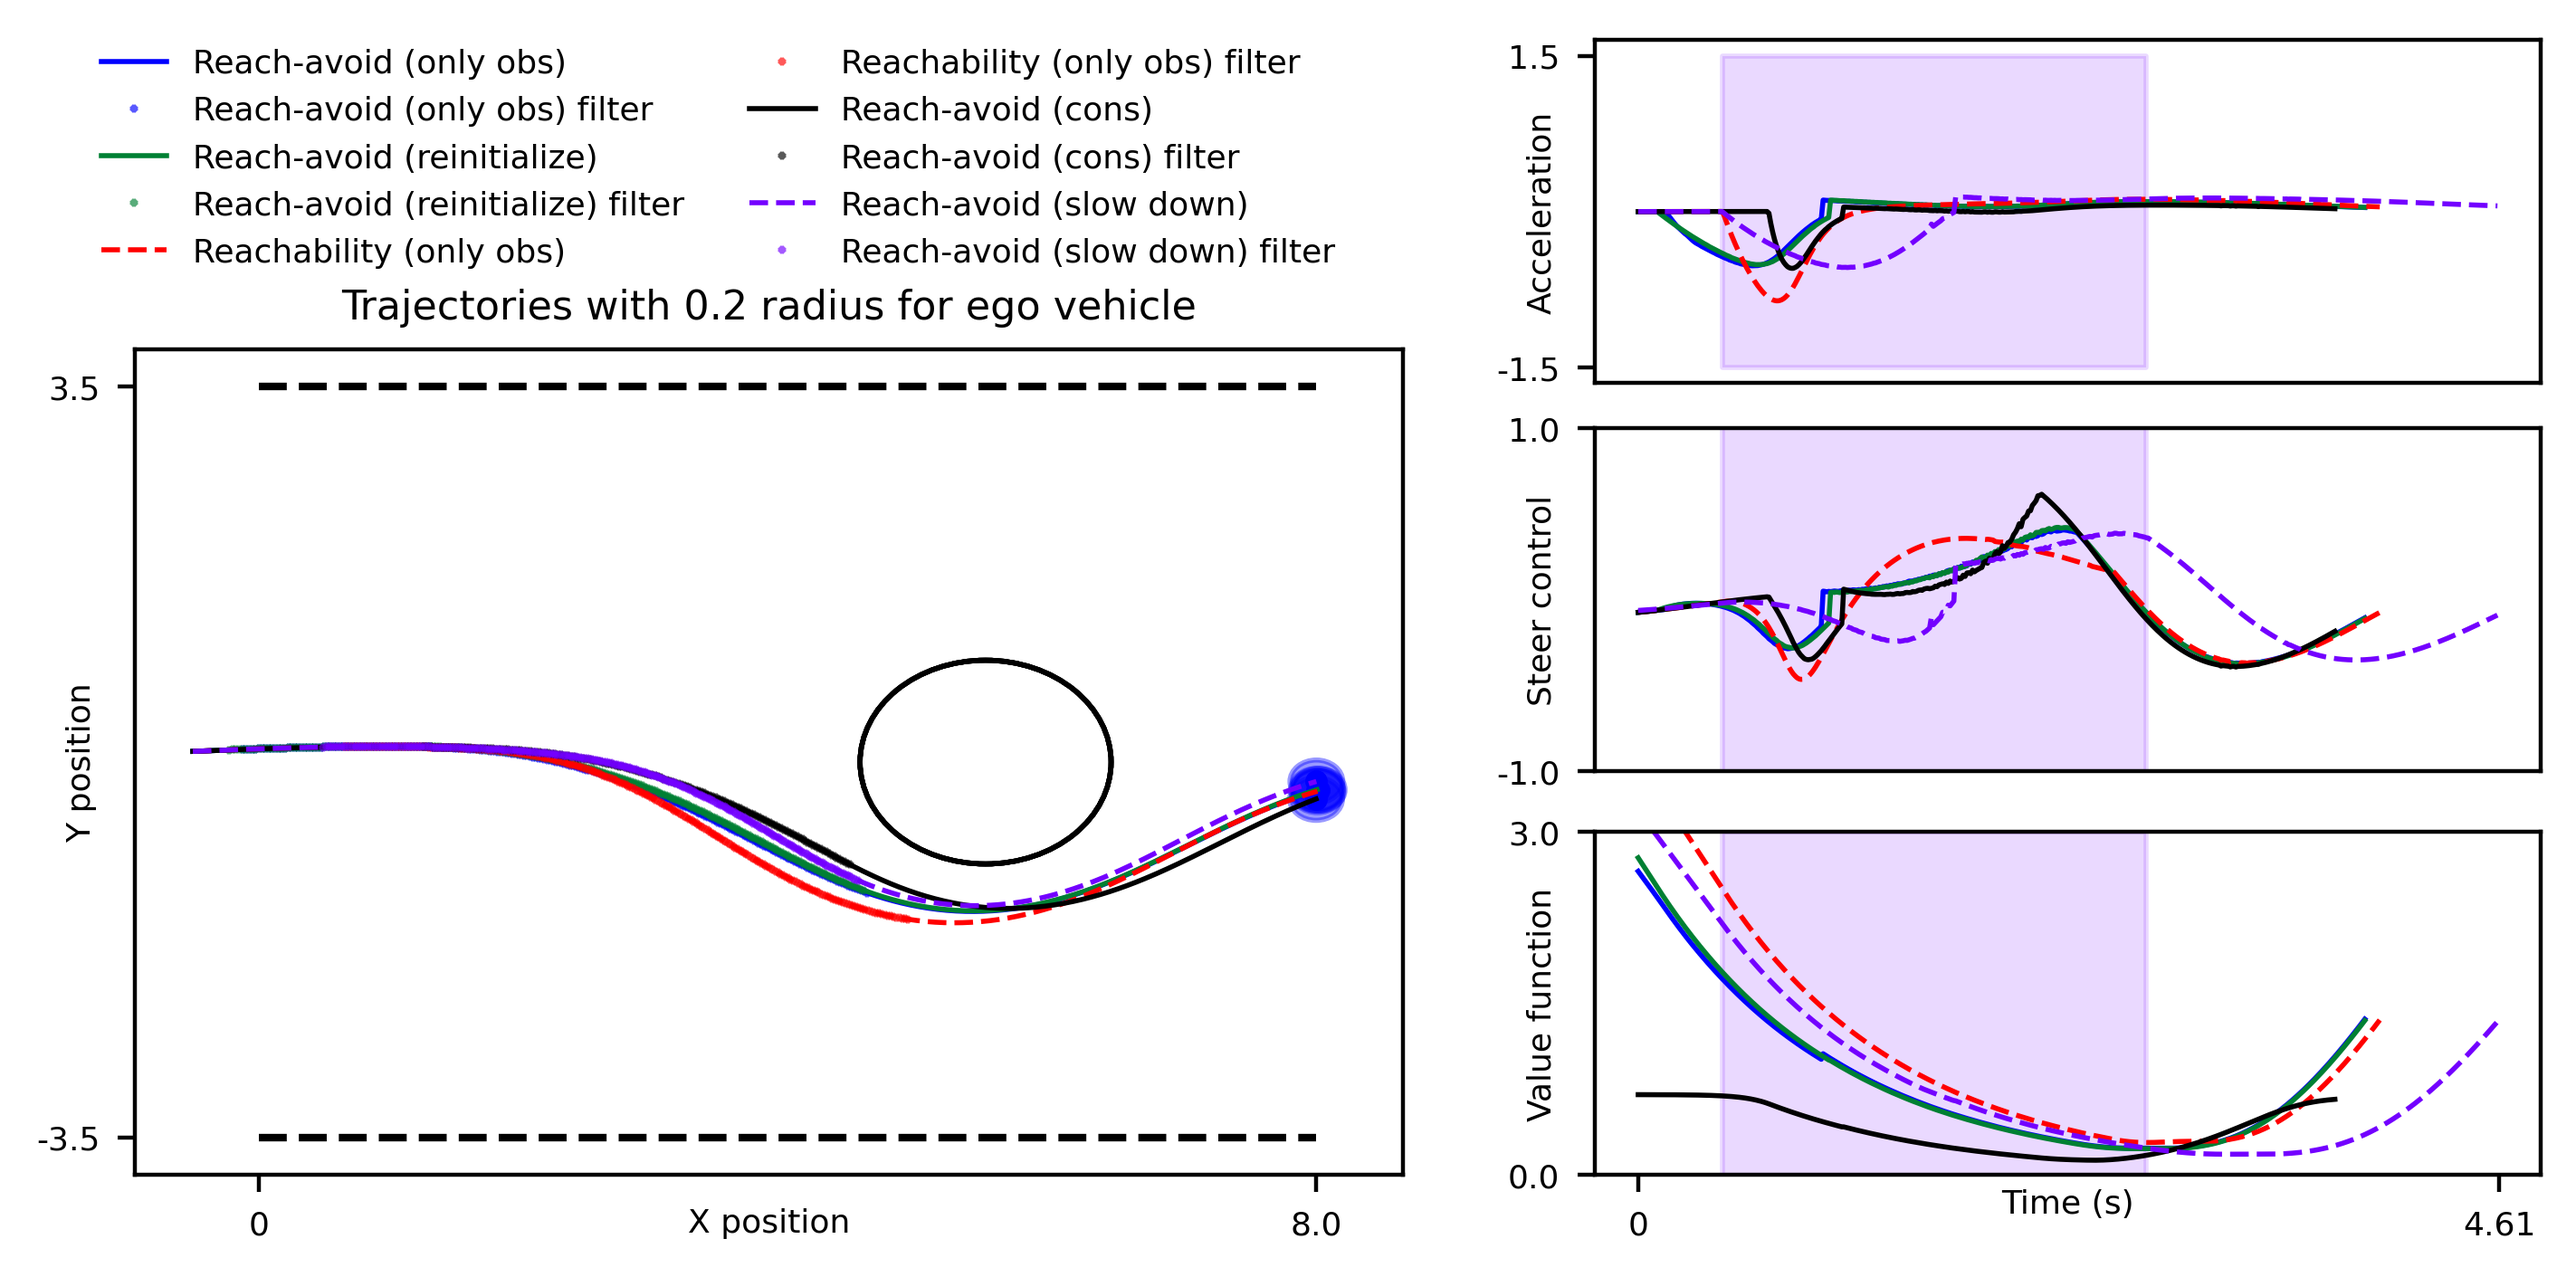
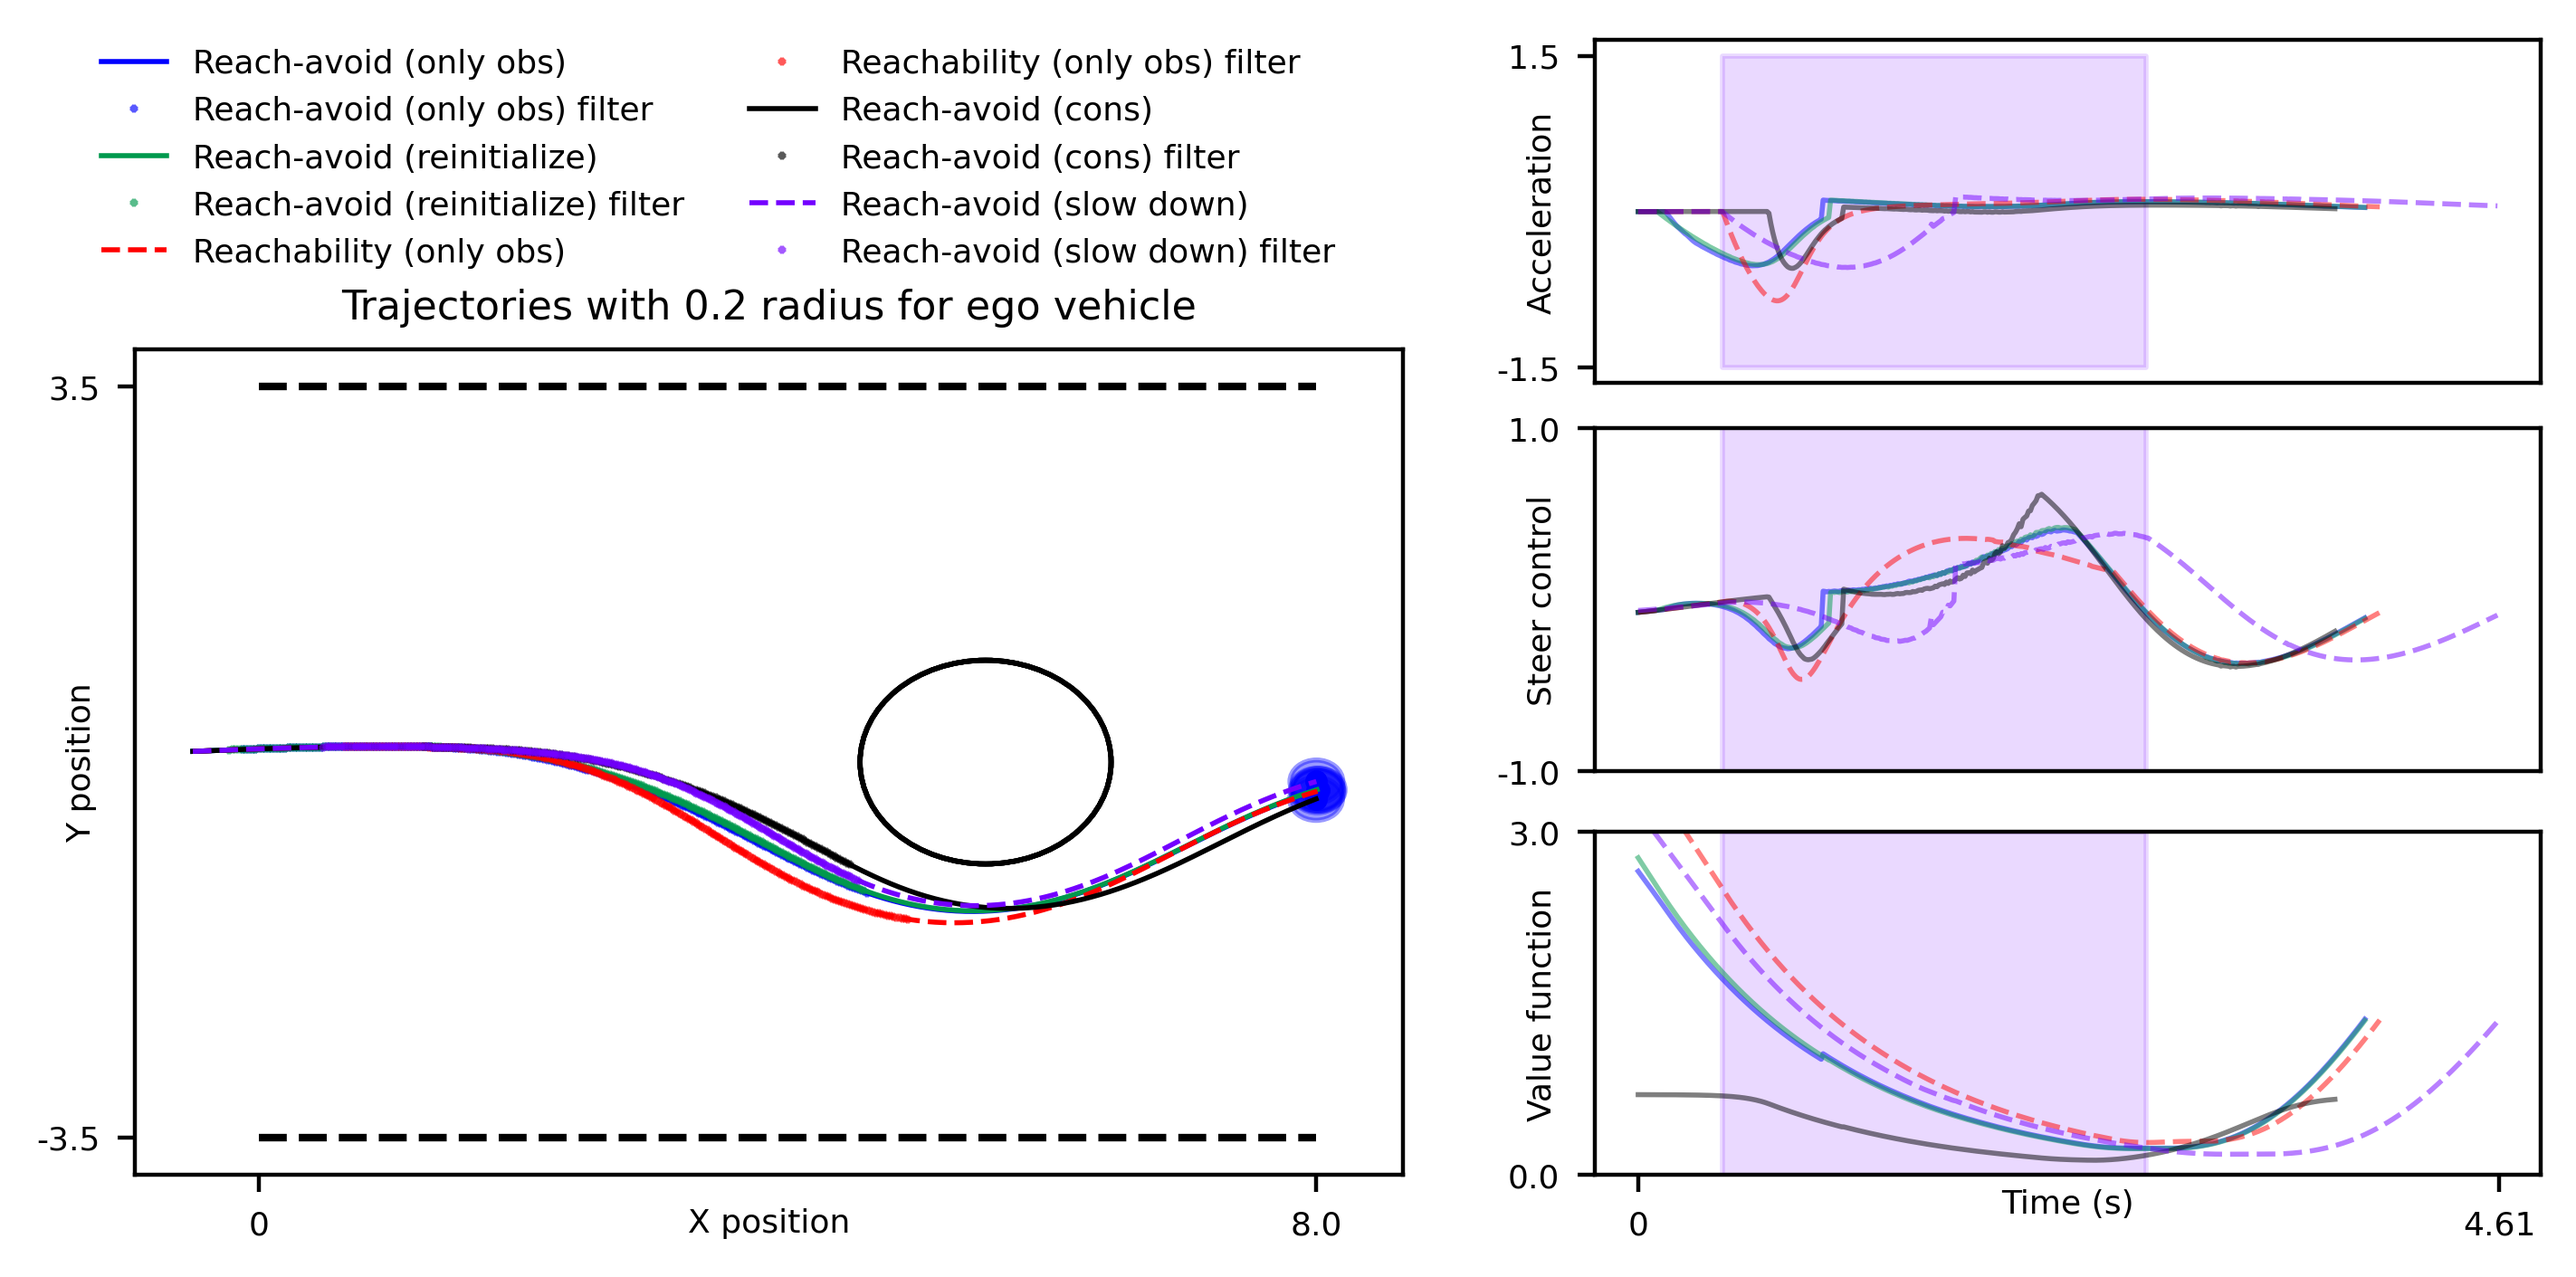
improving vis

diff --git a/plot_reachability_vs_reachavoid_with_single_obstacle.py b/plot_reachability_vs_reachavoid_with_single_obstacle.py
@@ -18,7 +18,7 @@ os.environ["CUDA_VISIBLE_DEVICES"] = " "
 jax.config.update('jax_platform_name', 'cpu')
 
 fig = plt.figure(layout='constrained', figsize=(7.0, 3.4))
-colorlist = [(0.0, 0, 1.0, 0.5), (0.0, 0.5, 0.2, 0.5), (1.0, 0.0, 0.0, 0.5), (0, 0, 0, 0.5), (0.45, 0.0, 1.0, 0.5)]
+colorlist = [(0.0, 0, 1.0, 0.5), (0.0, 0.6, 0.3, 0.5), (1.0, 0.0, 0.0, 0.5), (0, 0, 0, 0.5), (0.45, 0.0, 1.0, 0.5)]
 labellist = ['Reach-avoid (only obs)', 'Reach-avoid (reinitialize)', 'Reachability (only obs)', 'Reach-avoid (cons)', 'Reach-avoid (slow down)']
 stylelist = ['solid', 'solid', 'dashed', 'solid', 'dashed']
 legend_fontsize = 6.5
@@ -247,11 +247,11 @@ for idx, controls_data in enumerate(plot_actions_list):
     fillarray = np.zeros(maxsteps)
     fillarray[np.array(plot_obses_barrier_filter_list[idx], dtype=np.int64)] = 1
     axes[0].plot(x_times, controls_data[:, 0], label=labellist[int(idx)], c=colorlist[int(idx)], 
-                    alpha = 1.0, linewidth=1.0, linestyle=stylelist[idx])
+                    alpha = 0.5, linewidth=1.0, linestyle=stylelist[idx])
     axes[1].plot(x_times, controls_data[:, 1], label=labellist[int(idx)], c=colorlist[int(idx)], 
-                    alpha = 1.0, linewidth=1.0, linestyle=stylelist[idx])
+                    alpha = 0.5, linewidth=1.0, linestyle=stylelist[idx])
     axes[2].plot(x_times, plot_values_list[idx], label=labellist[int(idx)], c=colorlist[int(idx)], 
-                    alpha = 1.0, linewidth=1.0, linestyle=stylelist[idx])
+                    alpha = 0.5, linewidth=1.0, linestyle=stylelist[idx])
     if idx==4:
         axes[0].fill_between(x_times, action_space[0, 0], action_space[0, 1], 
                                 where=fillarray[0:nsteps], color=colorlist[int(idx)], alpha=0.15)
